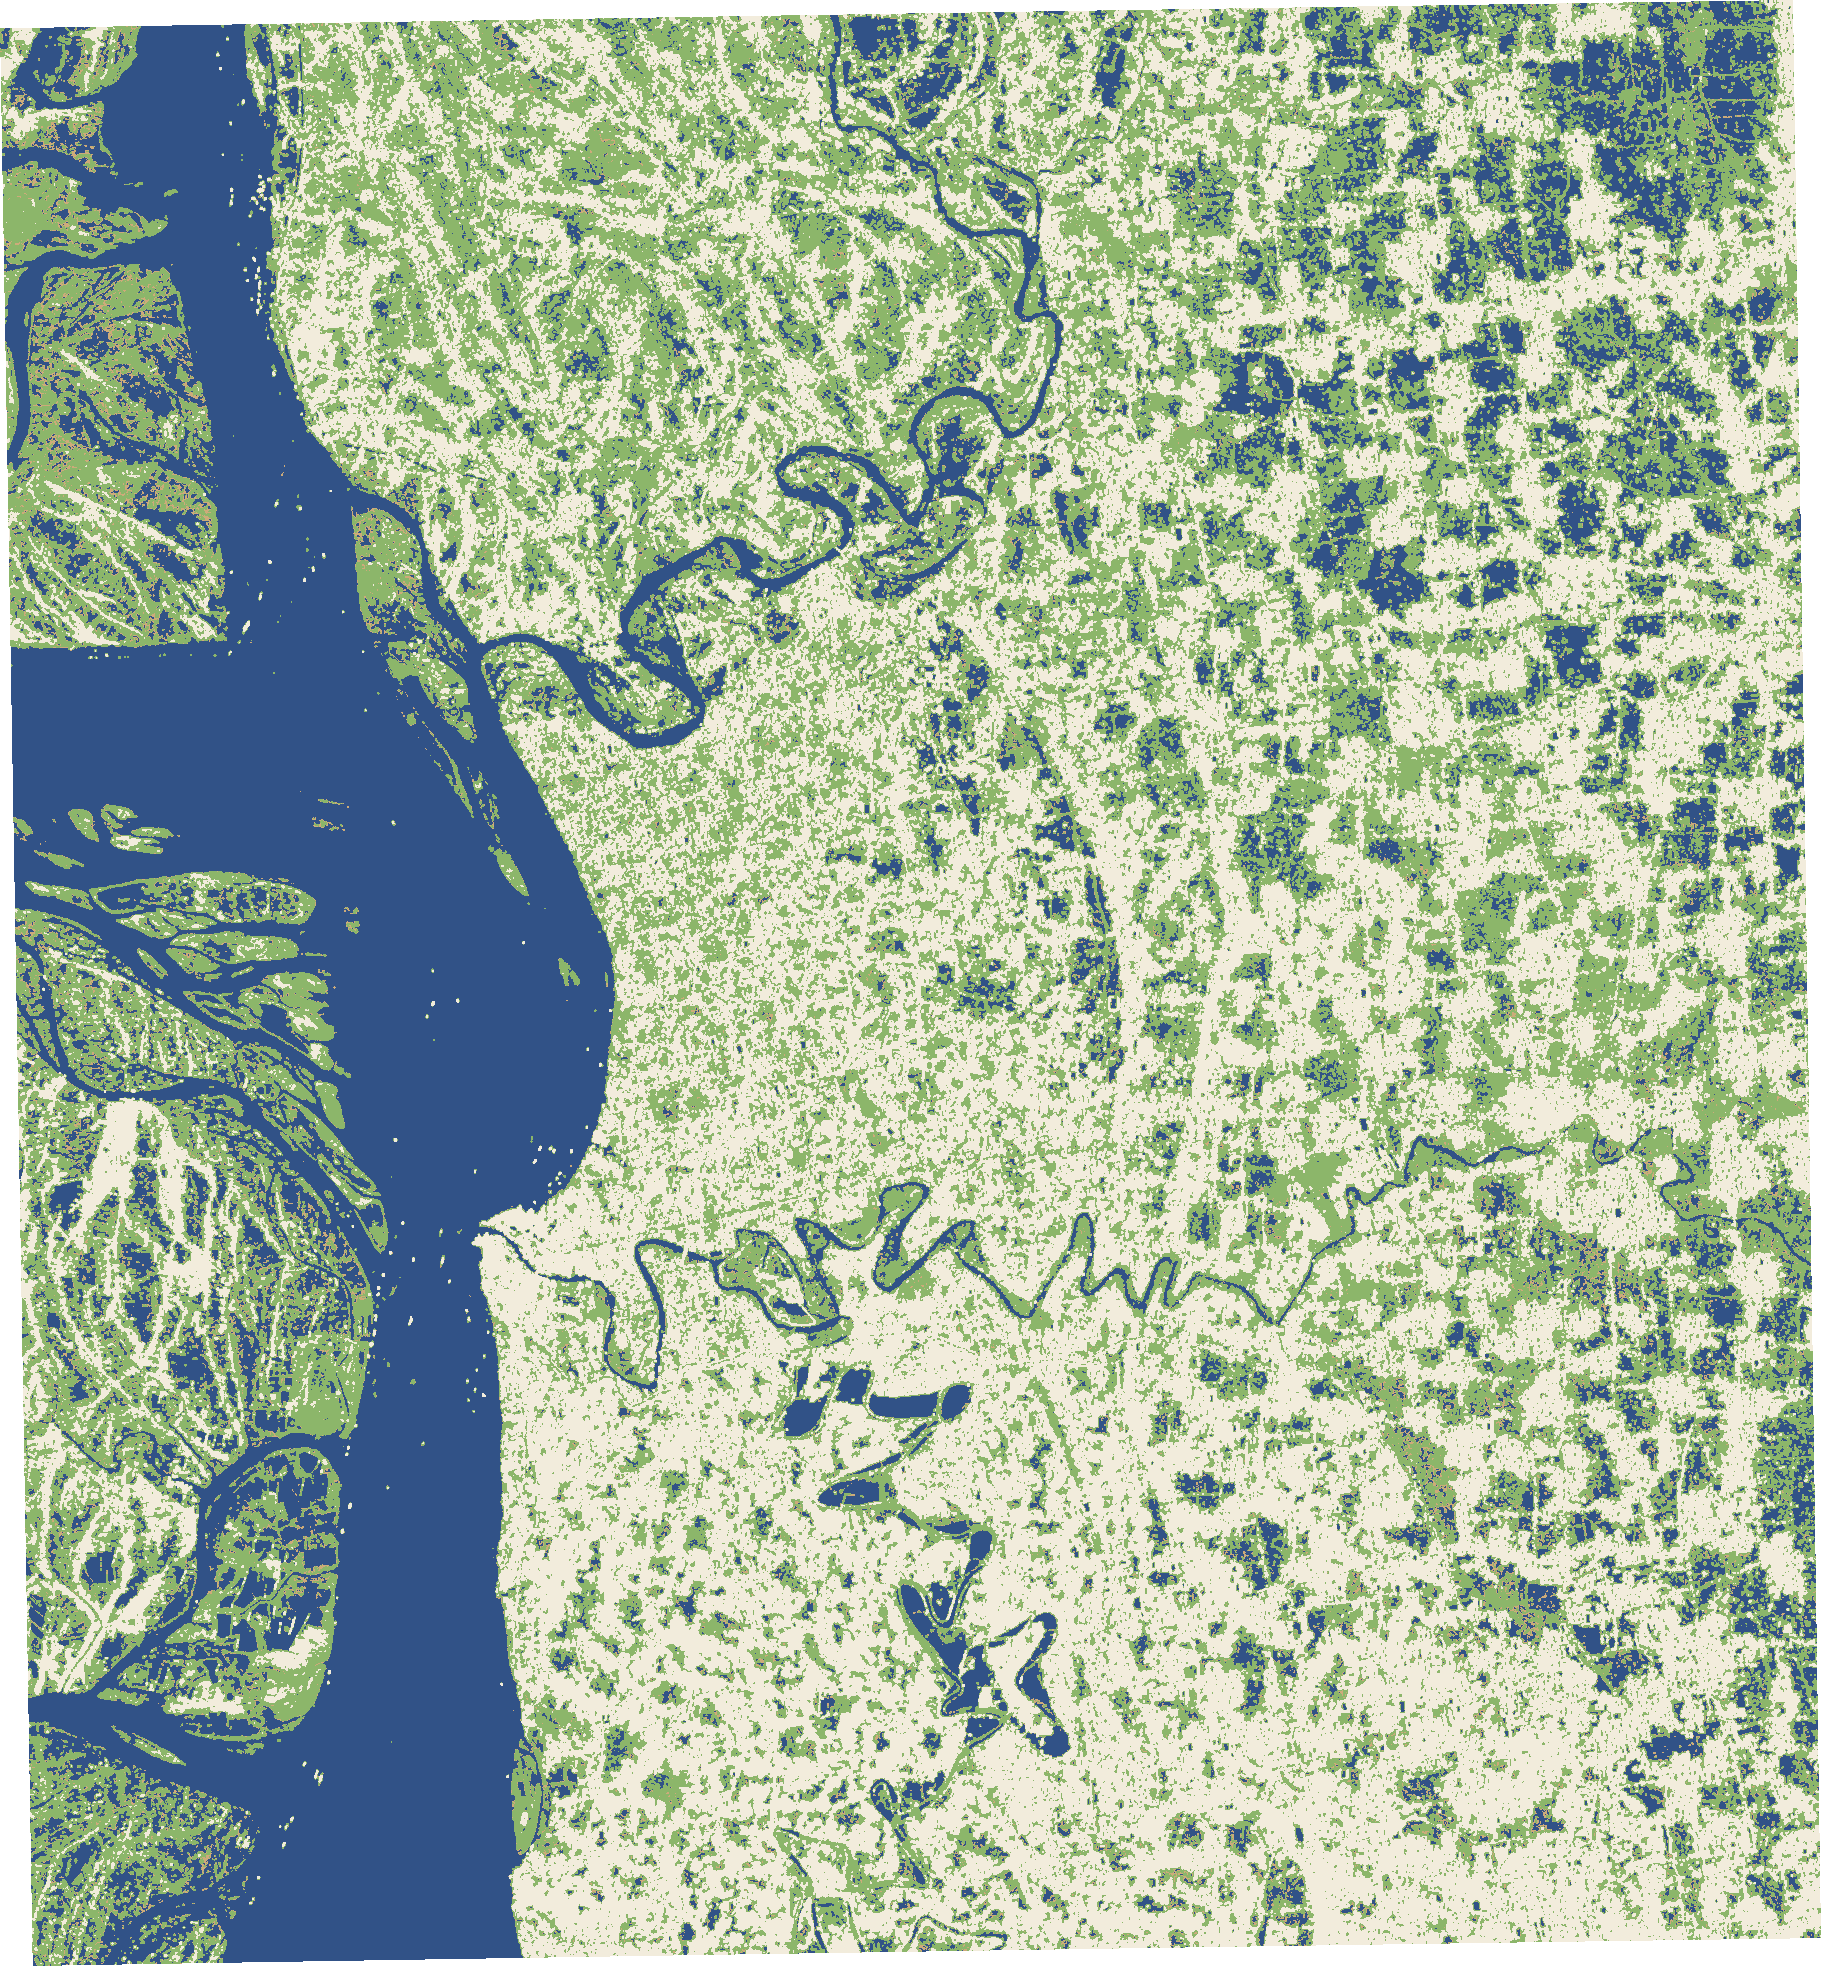
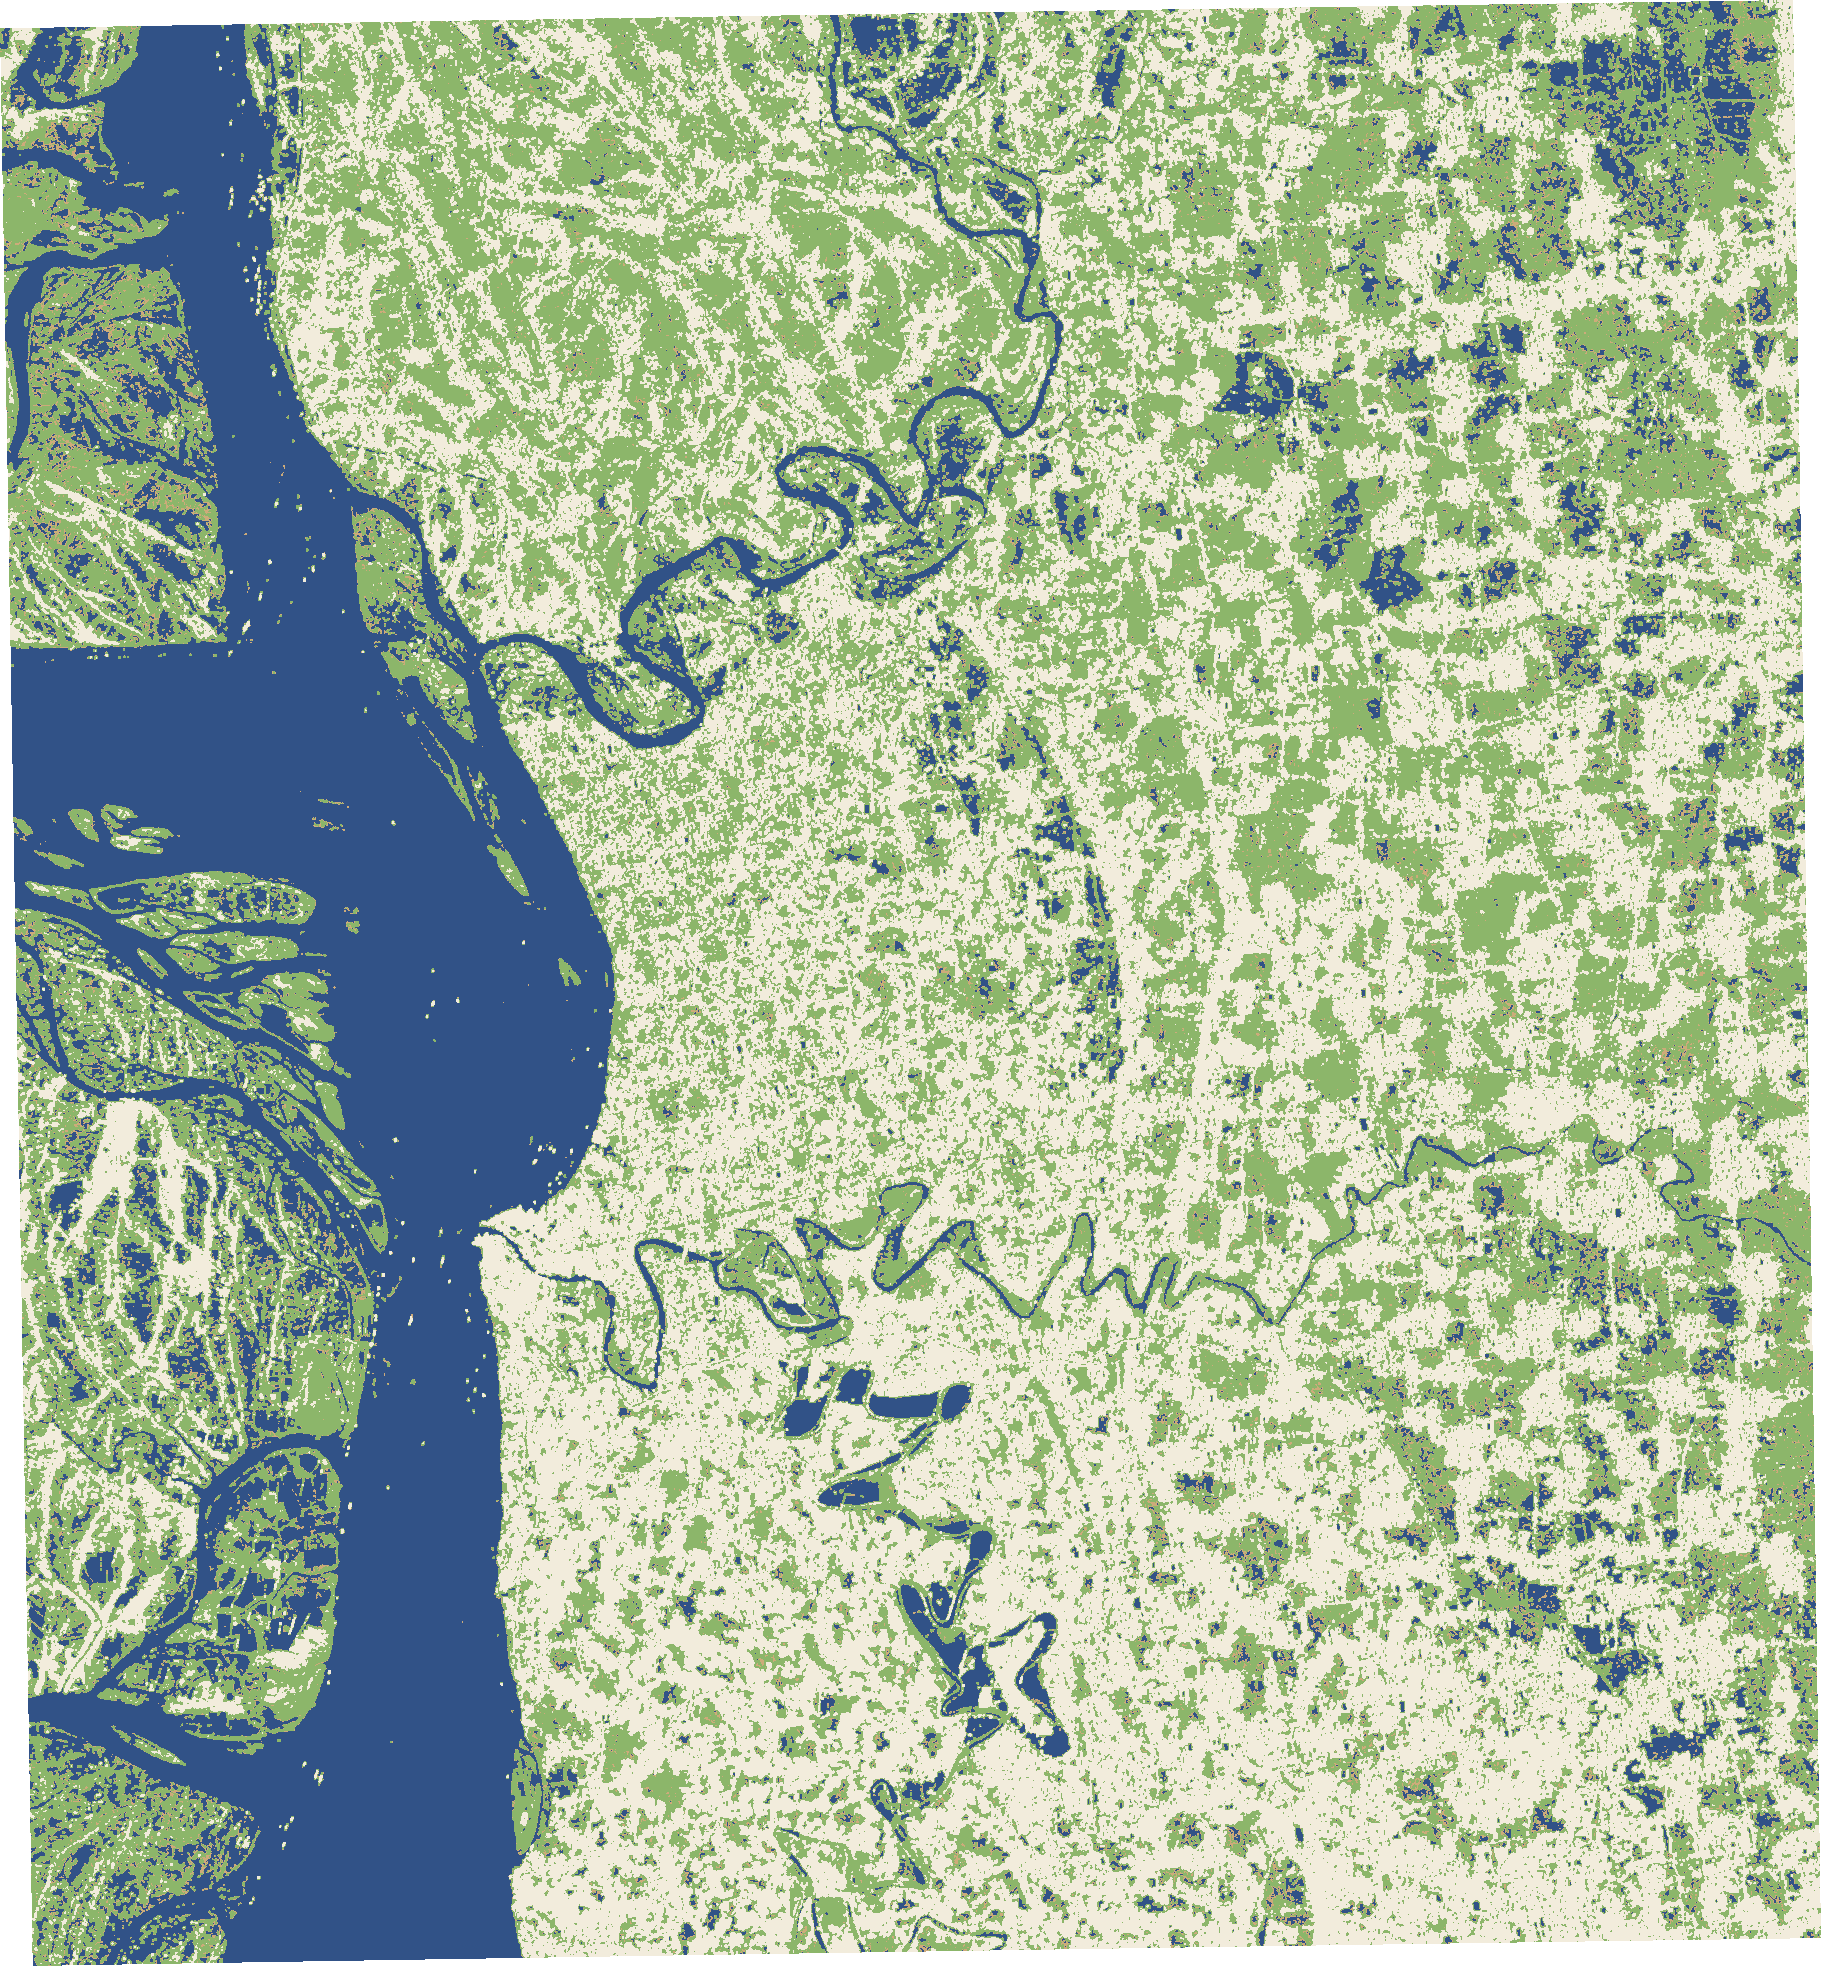
fix: ground classes change only where the change layer measured a change
Classifying each date on its own made sub-threshold shifts that cross a class
line look like a change of ground: on Thunder Bay a +1 dB drift moved 200 km²
from "fields" to "bright". The after date now keeps the before class unless
the pixel is flagged darker, double bounce or rougher, so the before/after
areas agree with the change layer. Ground layers regenerated.

diff --git a/app/modules/events/ground.py b/app/modules/events/ground.py
@@ -57,14 +57,25 @@ def ground_classes(db: np.ndarray, water_db: float) -> np.ndarray:
 
 
 def ground_pair(pre_db: np.ndarray, post_db: np.ndarray, water_db: float, flags=None):
-    """Ground classes of both dates. Water on one date that is still water-dark on the other is
-    water on both: wind on a lake is not a lake drying out (the change layer's rule too). With
-    the change flags, only unchanged or wind-flagged pixels get that treatment."""
+    """Ground classes of both dates.
+
+    With the change flags (the normal case), the after date differs from the before date ONLY
+    where the change layer measured a real change (darker / double bounce / rougher). Elsewhere
+    it keeps the before class: a shift below the noise threshold that happens to cross a class
+    line is not a change of ground (on Thunder Bay a +1 dB drift otherwise moved 200 km² from
+    "fields" to "bright"), and wind on a lake is not a lake drying out.
+
+    Without flags, each date gets its own class, except that water on one date which is still
+    water-dark on the other stays water on both.
+    """
     pre, post = ground_classes(pre_db, water_db), ground_classes(post_db, water_db)
-    steady = True if flags is None else np.isin(flags, (NO_CHANGE, ROUGH_FLAG))
+    if flags is not None:
+        changed = ~np.isin(flags, (NO_CHANGE, ROUGH_FLAG))
+        keep = ~changed & (pre > 0) & (post > 0)
+        return pre, np.where(keep, pre, post)
     with np.errstate(invalid="ignore"):
-        ruffled_after = steady & (pre == WATER) & (post > 0) & (post_db <= ROUGH_MAX_DB)
-        ruffled_before = steady & (post == WATER) & (pre > 0) & (pre_db <= ROUGH_MAX_DB)
+        ruffled_after = (pre == WATER) & (post > 0) & (post_db <= ROUGH_MAX_DB)
+        ruffled_before = (post == WATER) & (pre > 0) & (pre_db <= ROUGH_MAX_DB)
     return np.where(ruffled_before, WATER, pre), np.where(ruffled_after, WATER, post)
 
 

diff --git a/tests/test_ground.py b/tests/test_ground.py
@@ -54,3 +54,17 @@ def test_wind_flagged_pixels_stay_water_when_flags_are_given():
     flags = np.array([[pipeline.ROUGH, 0]], "uint8")
     a, b = ground_pair(np.array([[-20.0, -20.0]]), np.array([[-12.0, -14.0]]), WATER_DB, flags)
     assert a.tolist() == [[WATER, WATER]] and b.tolist() == [[WATER, WATER]]
+
+
+def test_a_small_unflagged_shift_across_a_class_line_does_not_change_the_class():
+    # -6.5 -> -5.5 dB crosses the medium/bright line, but 1 dB is below the change threshold
+    # (flag 0): the ground did not measurably change, so the after date keeps the before class.
+    flags = np.array([[0]], "uint8")
+    a, b = ground_pair(np.array([[-6.5]]), np.array([[-5.5]]), WATER_DB, flags)
+    assert a[0, 0] == MEDIUM and b[0, 0] == MEDIUM
+
+
+def test_a_flagged_change_takes_the_after_dates_own_class():
+    flags = np.array([[pipeline.VOLUME]], "uint8")
+    a, b = ground_pair(np.array([[-9.0]]), np.array([[-4.0]]), WATER_DB, flags)
+    assert a[0, 0] == MEDIUM and b[0, 0] == BRIGHT

diff --git a/README.md b/README.md
@@ -106,12 +106,12 @@ Optional, for the NASA photo basemaps without NASA's servers: `uv run python -m 
    the before side of the swipe is coloured too, and the app lists each class's km² before ->
    after: water (below the scene's water line), smooth ground (below -12 dB: bare soil, mud),
    fields and shrubs (below -6 dB), bright (forest, buildings, rock, slopes facing the satellite).
-   Areas count only ground the radar saw on both dates. Water on one date that is still
-   water-dark (<= -9 dB) on the other stays water on both, unless the change layer flagged a real
-   darker/brighter change there: wind on a lake is not a lake drying out (on Thunder Bay that
-   rule keeps 32 km² of wind-ruffled lakes as water), while a flooded wet field still shows as
-   new water (Meghna). Class boundaries are typical levels, so a pixel sitting on one can switch
-   colour from a small shift; the change layer, with its noise threshold, is the strict test.
+   Areas count only ground the radar saw on both dates. The after date differs from the before
+   date only where the change layer measured a real change (darker, double bounce, rougher);
+   elsewhere it keeps the before class. Otherwise a shift below the noise threshold that happens
+   to cross a class line reads as a change of ground: on Thunder Bay a +1 dB drift moved 200 km²
+   from "fields" to "bright", and wind turned 32 km² of lakes into "smooth ground". The view
+   therefore agrees with the change layer and its noise threshold.
 
 Output lands in `data/events/<id>/`; the API serves it (`/api/v1/events`,
 `/api/v1/events/{id}`, `/api/v1/events/{id}/probe?lat&lon`). `tests/test_change.py` holds the
